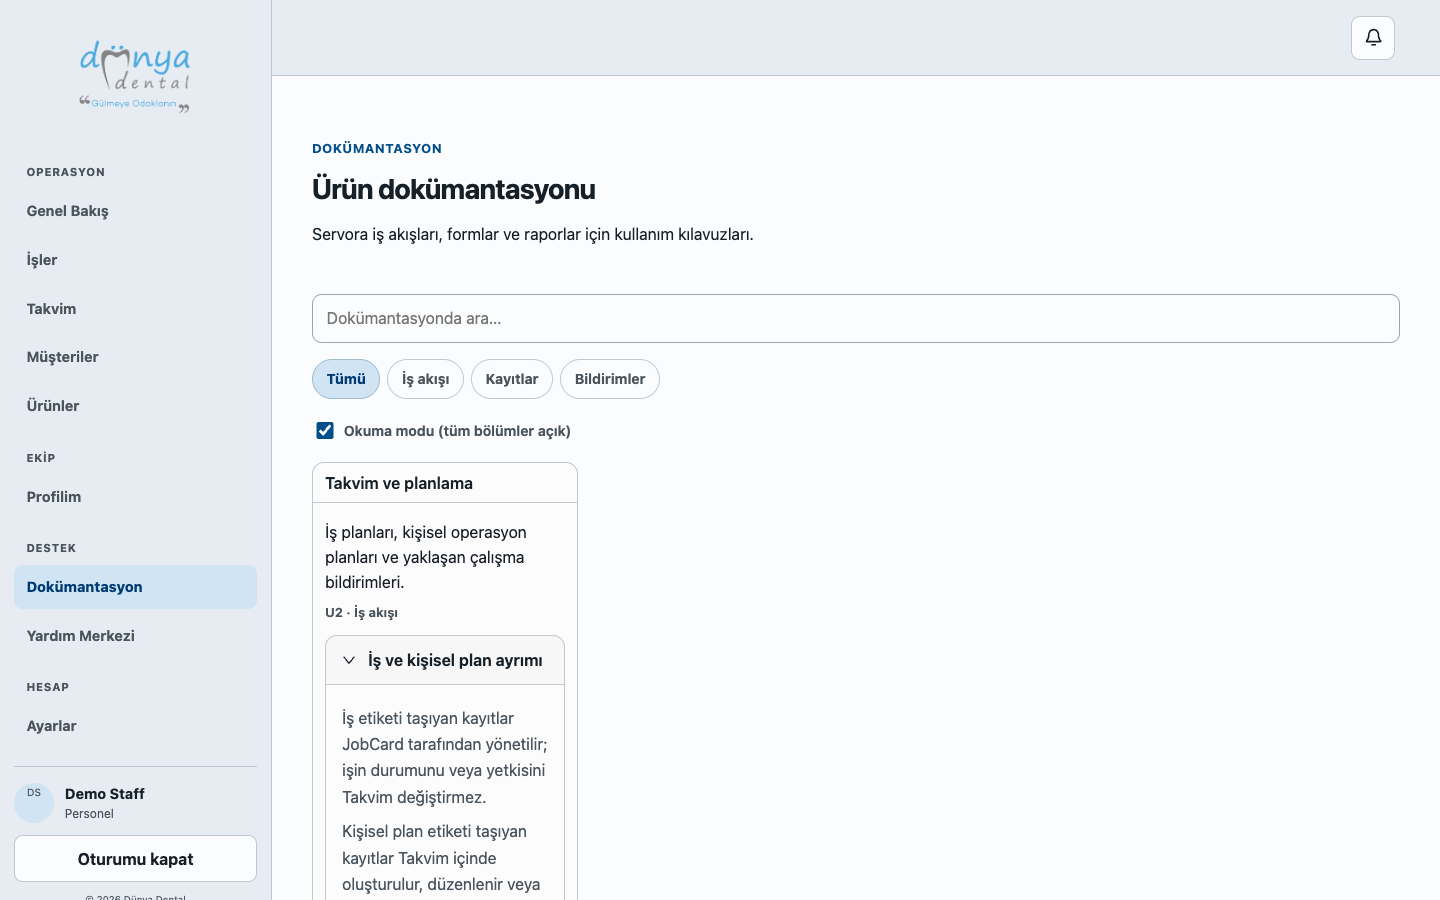
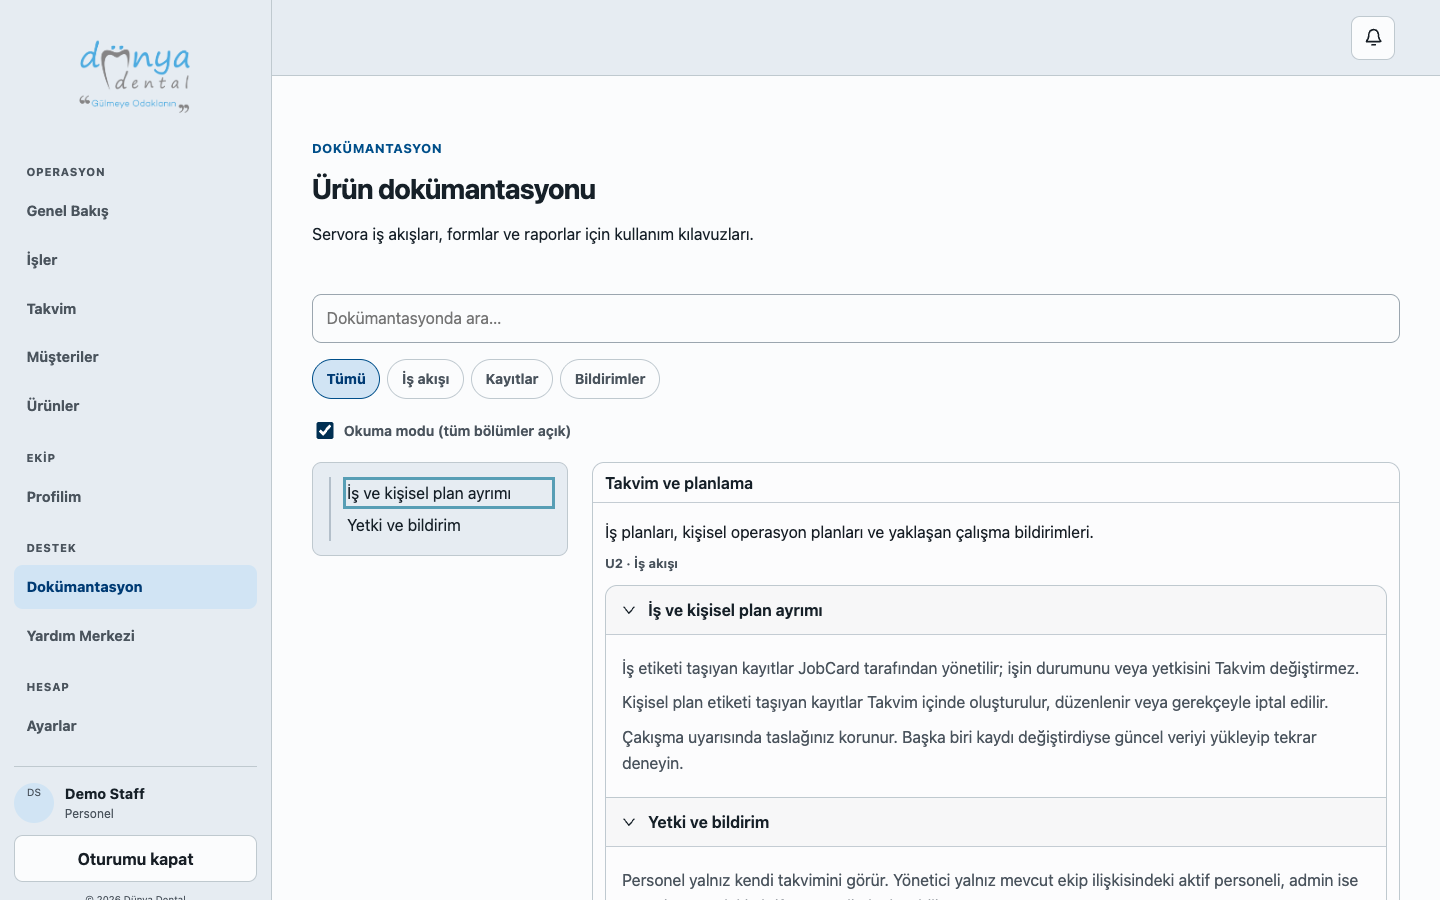
docs: refresh workspace evidence with reading mode repair
- documentation-1024: normal mode, panels closed
- documentation-long-content: reading mode ON, 5/5 panels open, Anchor visible (calendar-planning 2 sections)
- documentation-200-percent-text: no horizontal overflow
- README capture SHA updated to 004a001

diff --git a/docs/evidence/phase-u-workspace/README.md b/docs/evidence/phase-u-workspace/README.md
@@ -1,6 +1,6 @@
 # Phase U — Workspace Visual Composition Evidence
 
-**Capture code SHA:** `37ee05c...`
+**Capture code SHA:** `004a001...`
 **Date:** 2026-07-27
 **Browser:** Playwright (Chromium) against real running backend
 **Data:** Synthetic — all users (`@servora.local`), disposable test data
